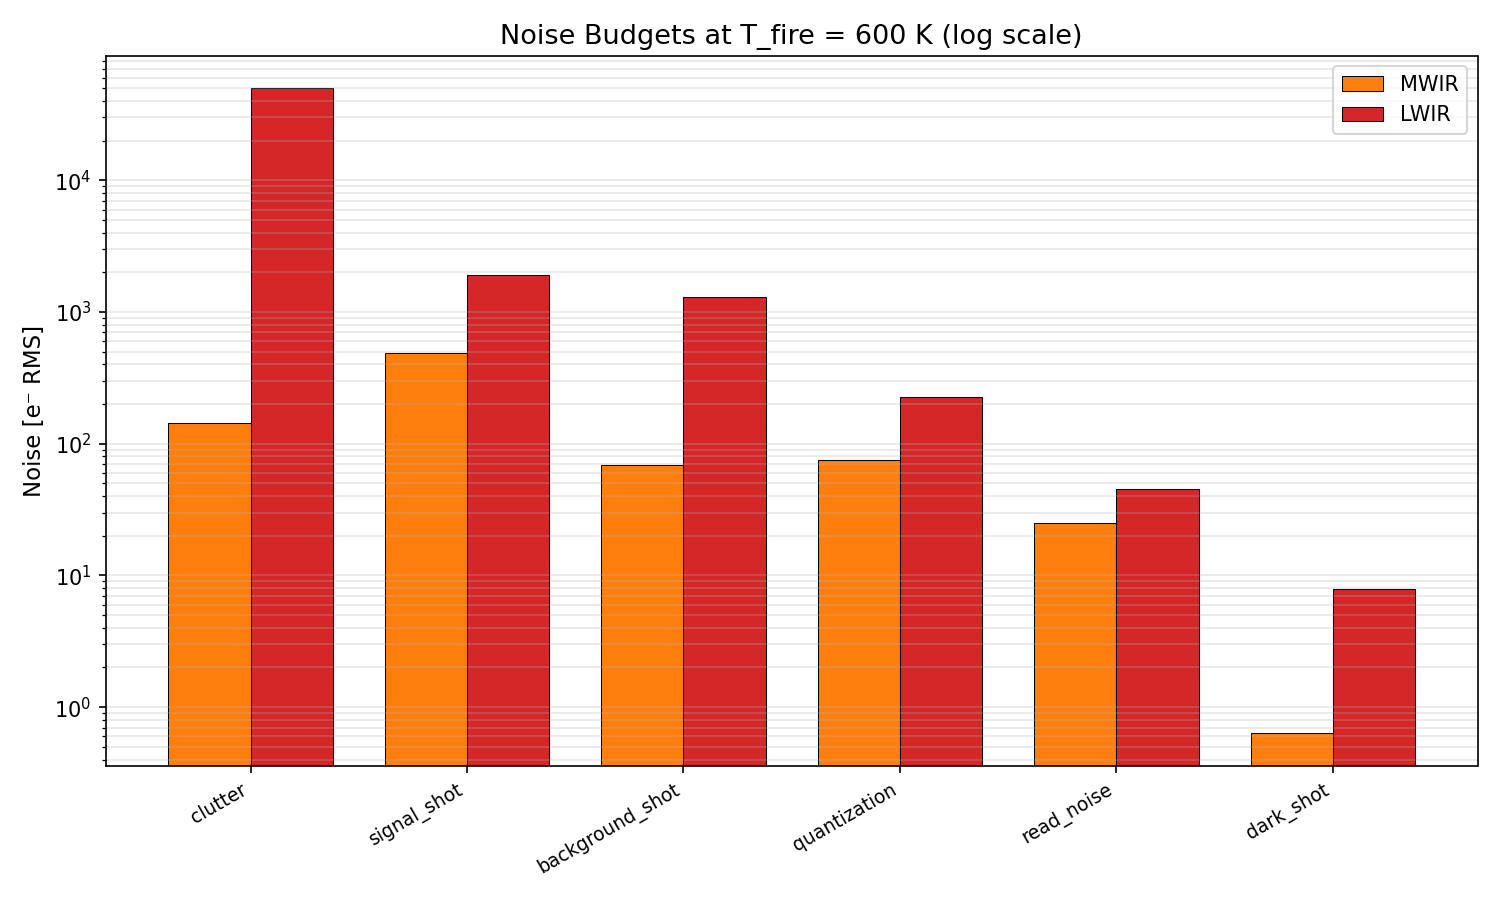
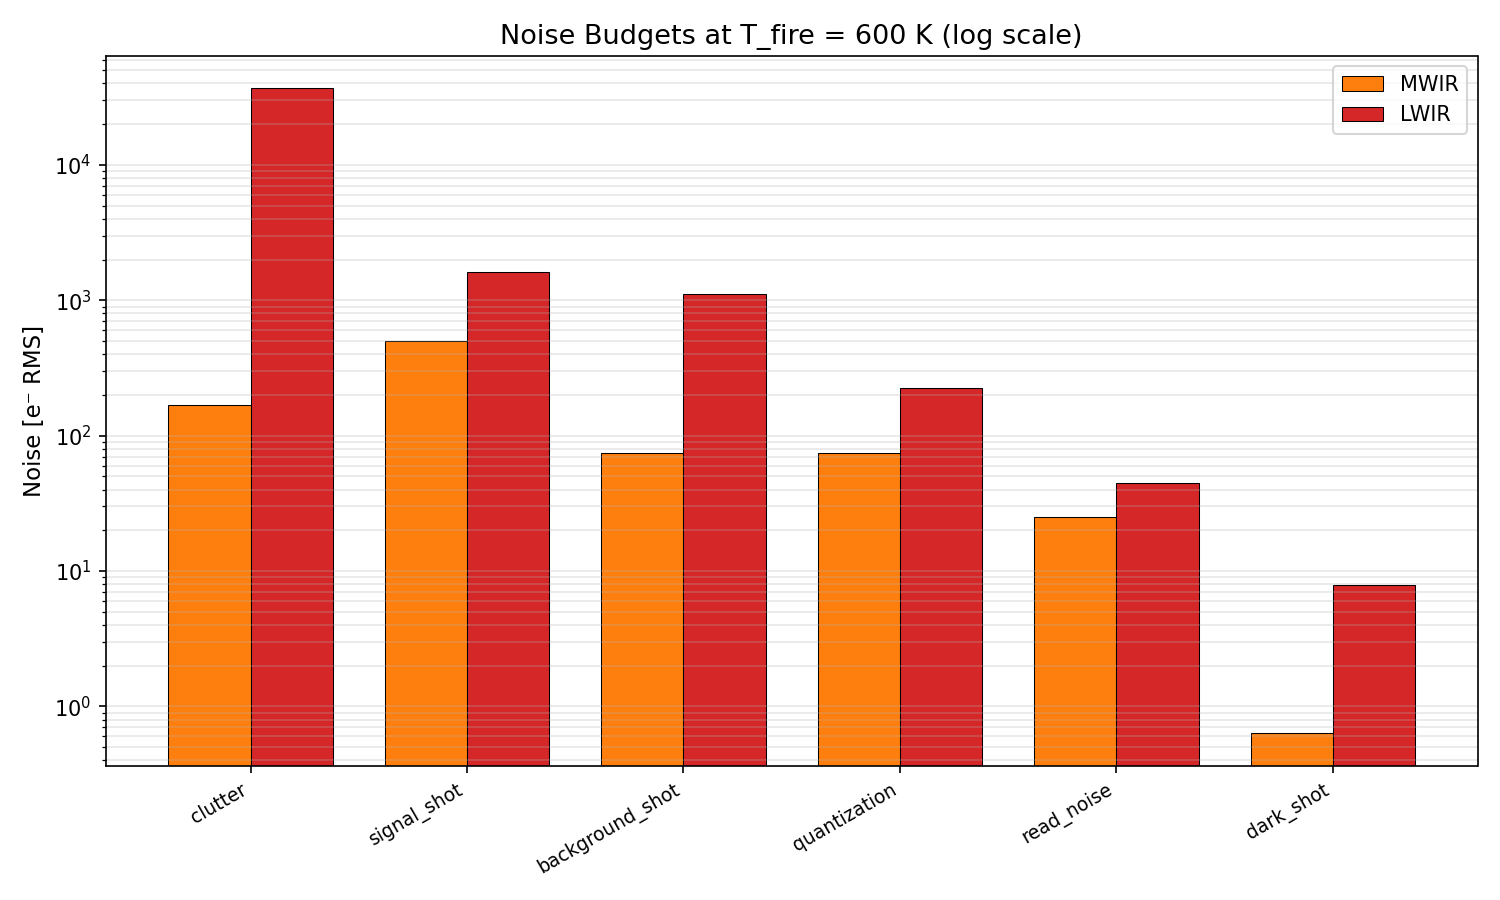
docs(scenarios): CU-176 — refresh 1.3 (dual-band MWIR/LWIR wildfire) numbers + figures
Spot-check found substantial drift from the MWIR/LWIR recalibration. Refreshed
the 600 K side-by-side (MWIR SCNR 449.4->457.0, LWIR 38.4->37.3; LWIR signal
3.58M->2.61M, total noise 50029->36932 e-) and the fire-temperature sweep. Key
narrative change: LWIR no longer saturates at 1200 K (only MWIR does), so the
'both bands saturate together' claim is corrected. LWIR 400 K smolder P_d
0.057->0.023; clutter ratio 350x->~220x, noise ratio 96x->68x, NEDT 145.1/221.8
->169.7/217.0 mK. Runner uses Agg + no NIIRS, no code change needed.

diff --git a/scenarios/01_sarah_systems_engineer/1.3_dual_band_mwir_lwir/walkthrough.md b/scenarios/01_sarah_systems_engineer/1.3_dual_band_mwir_lwir/walkthrough.md
@@ -43,15 +43,15 @@ original execution left it at the default 1.0, overstating the fire signal
 
 | Quantity | MWIR | LWIR |
 |----------|-----:|-----:|
-| Pixel signal [e⁻] | 238,438 | 3,584,903 |
-| Contrast (fire − forest) [e⁻] | 233,630 | 1,919,035 |
-| Well fill [%] | 6.0 | 29.9 |
-| Total noise [e⁻ RMS] | 519.9 | 50,029.1 |
-| — of which clutter [e⁻ RMS] | 144.2 | 49,976.1 |
-| SNR [--] | 477.3 | 1,556.7 |
-| Contrast SNR [--] | 467.7 | 833.3 |
-| **SCNR (incl. clutter) [--]** | **449.4** | **38.4** |
-| NEDT [mK] (Gap 43 approximation) | 221.8 | 145.1 |
+| Pixel signal [e⁻] | 253,351 | 2,606,566 |
+| Contrast (fire − forest) [e⁻] | 247,713 | 1,377,244 |
+| Well fill [%] | 6.3 | 21.7 |
+| Total noise [e⁻ RMS] | 542.1 | 36,932.3 |
+| — of which clutter [e⁻ RMS] | 169.1 | 36,879.6 |
+| SNR [--] | 491.9 | 1,321.8 |
+| Contrast SNR [--] | 481.0 | 698.4 |
+| **SCNR (incl. clutter) [--]** | **457.0** | **37.3** |
+| NEDT [mK] (Gap 43 approximation) | 217.0 | 169.7 |
 
 ### Spectral contrast (hand Planck, ASTER ε_bg(λ))
 
@@ -59,22 +59,22 @@ Band-integrated ΔL(600 K): 373.6 W/m²/sr (MWIR) vs 382.0 W/m²/sr (LWIR) —
 nearly EQUAL in radiance. The trade is decided at the detector, not in
 ΔL: the 600 K Planck peak sits at 4.8 µm (inside MWIR), while LWIR sees
 the 300 K background ~10× brighter, so LWIR's clutter (3% of a huge
-background) is 350× MWIR's. Same ΔL, wildly different signal-to-clutter.
+background) is ~220× MWIR's. Same ΔL, wildly different signal-to-clutter.
 
 ### Fire-temperature sweep (400–1200 K), P_fa = 1e-6
 
 | T_fire [K] | MWIR SCNR | sat? | LWIR SCNR | sat? | P_d MWIR | P_d LWIR |
 |-----------:|----------:|:----:|----------:|:----:|:--------:|:--------:|
-| 400 | 58.6 | no | 3.2 | no | 1.000 | **0.057** |
-| 500 | 224.1 | no | 18.5 | no | 1.000 | 1.000 |
-| 600 | 449.4 | no | 38.4 | no | 1.000 | 1.000 |
-| 800 | 973.5 | no | 87.3 | no | 1.000 | 1.000 |
-| 1000 | 1,529.1 | no | 143.9 | no | 1.000 | 1.000 |
-| 1200 | 2,163.8 | **YES** | 204.7 | **YES** | 1.000 | 1.000 |
+| 400 | 57.6 | no | 2.8 | no | 1.000 | **0.023** |
+| 500 | 225.4 | no | 17.8 | no | 1.000 | 1.000 |
+| 600 | 457.0 | no | 37.3 | no | 1.000 | 1.000 |
+| 800 | 993.6 | no | 85.6 | no | 1.000 | 1.000 |
+| 1000 | 1,559.7 | no | 141.5 | no | 1.000 | 1.000 |
+| 1200 | 2,248.7 | **YES** | 201.8 | no | 1.000 | 1.000 |
 
 MWIR detects the 5 m² fire with P_d ≈ 1 at every temperature; **LWIR
-misses the coolest fires** — at 400 K its SCNR (3.2) falls below the
-4.75σ threshold and P_d collapses to 0.057. That is a real band
+misses the coolest fires** — at 400 K its SCNR (2.8) falls below the
+4.75σ threshold and P_d collapses to 0.023. That is a real band
 discriminator the pixel-filling error had hidden (LWIR SCNR was
 overstated ~3×). With the correct 31% fill, saturation moves out to
 ≈1200 K in **both** bands (from ≈800/900 K before the fix); above it the
@@ -82,7 +82,7 @@ radiometry clips and in-band fire temperature cannot be retrieved.
 
 ## Physics Discussion
 
-1. **Clutter, not noise, is the LWIR penalty.** LWIR total noise is 96×
+1. **Clutter, not noise, is the LWIR penalty.** LWIR total noise is ~68×
    MWIR's, and 99.9% of it is scene clutter — 3% of a background that is
    an order of magnitude brighter in-band. MWIR detection rides on the
    Wien-side contrast steepness with a dim background underneath.
@@ -90,7 +90,7 @@ radiometry clips and in-band fire temperature cannot be retrieved.
    within 2% of each other at 600 K; a briefing chart that stopped at ΔL
    would call the bands equivalent. The chain comparison (photon
    conversion, per-band QE/dark/read, clutter) is what separates them.
-3. **NEDT favors LWIR (145.1 vs 221.8 mK)** — for mapping ambient-
+3. **NEDT favors LWIR (169.7 vs 217.0 mK)** — for mapping ambient-
    temperature scenes LWIR remains the right band; NEDT is the wrong
    figure of merit for fire *detection* (both values carry the Gap 43
    single-λ caveat; the reflected-solar component of that caveat is
@@ -102,19 +102,19 @@ radiometry clips and in-band fire temperature cannot be retrieved.
    ~2%, which flows straight into the clutter estimate.
 5. **Detection probability now discriminates at the cool end.** P_d =
    Q(4.75 − SCNR) saturates to 1 for SCNR ≳ 10, but the LWIR at a 400 K
-   smolder sits *below* threshold (SCNR 3.2 → P_d = 0.057) — LWIR misses
+   smolder sits *below* threshold (SCNR 2.8 → P_d = 0.023) — LWIR misses
    cool fires from 10 km at this fill. MWIR stays at P_d ≈ 1 everywhere.
    (ROC-grade detection modeling now exists — `performance.roc`, scenario
    6.4 — and could replace the single-threshold model here.)
 
 ## Recommendation
 
-**MWIR for detection** — SCNR is 10–12× LWIR's at every fire temperature,
-LWIR misses 400 K smolders outright, and both bands now saturate together
-at ≈1200 K (the fill-corrected radiometry removed MWIR's earlier
-saturation penalty). Pair MWIR with sub-frame integrations if
-fire-temperature retrieval above ~1200 K matters, and keep LWIR for
-ambient-scene mapping where its NEDT advantage applies.
+**MWIR for detection** — SCNR is ≥11× LWIR's at every fire temperature (up to ~20× at the cool end),
+LWIR misses 400 K smolders outright, and MWIR saturates first (from
+≈1200 K, where its fire-mode signal reaches ~98% of the 4 Me⁻ well) while
+LWIR stays unsaturated across the swept range. Pair MWIR with sub-frame
+integrations if fire-temperature retrieval above ~1200 K matters, and keep
+LWIR for ambient-scene mapping where its NEDT advantage applies.
 
 ## Gaps Identified
 
